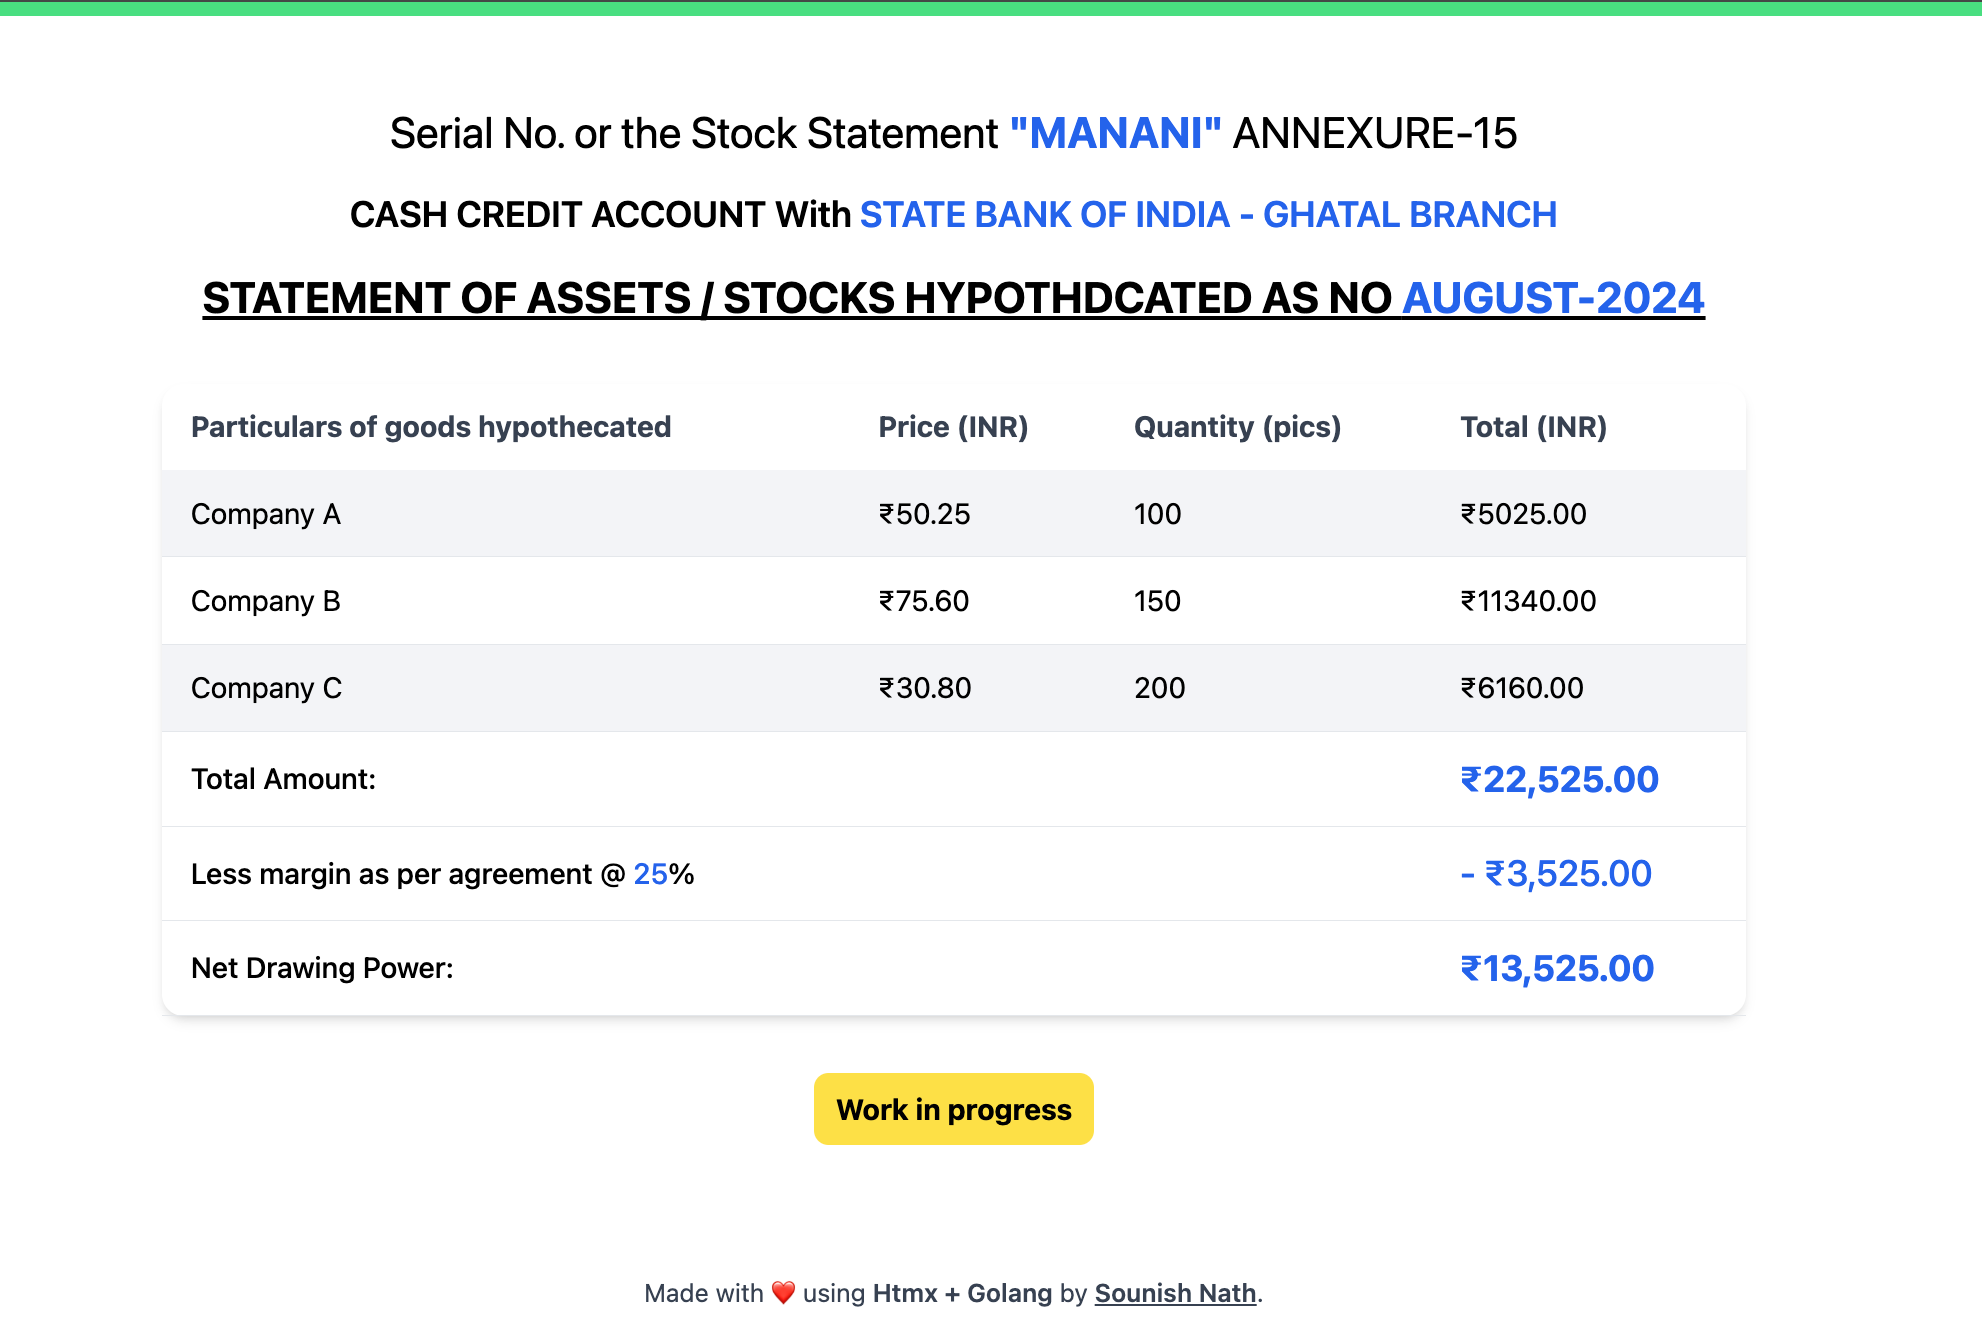
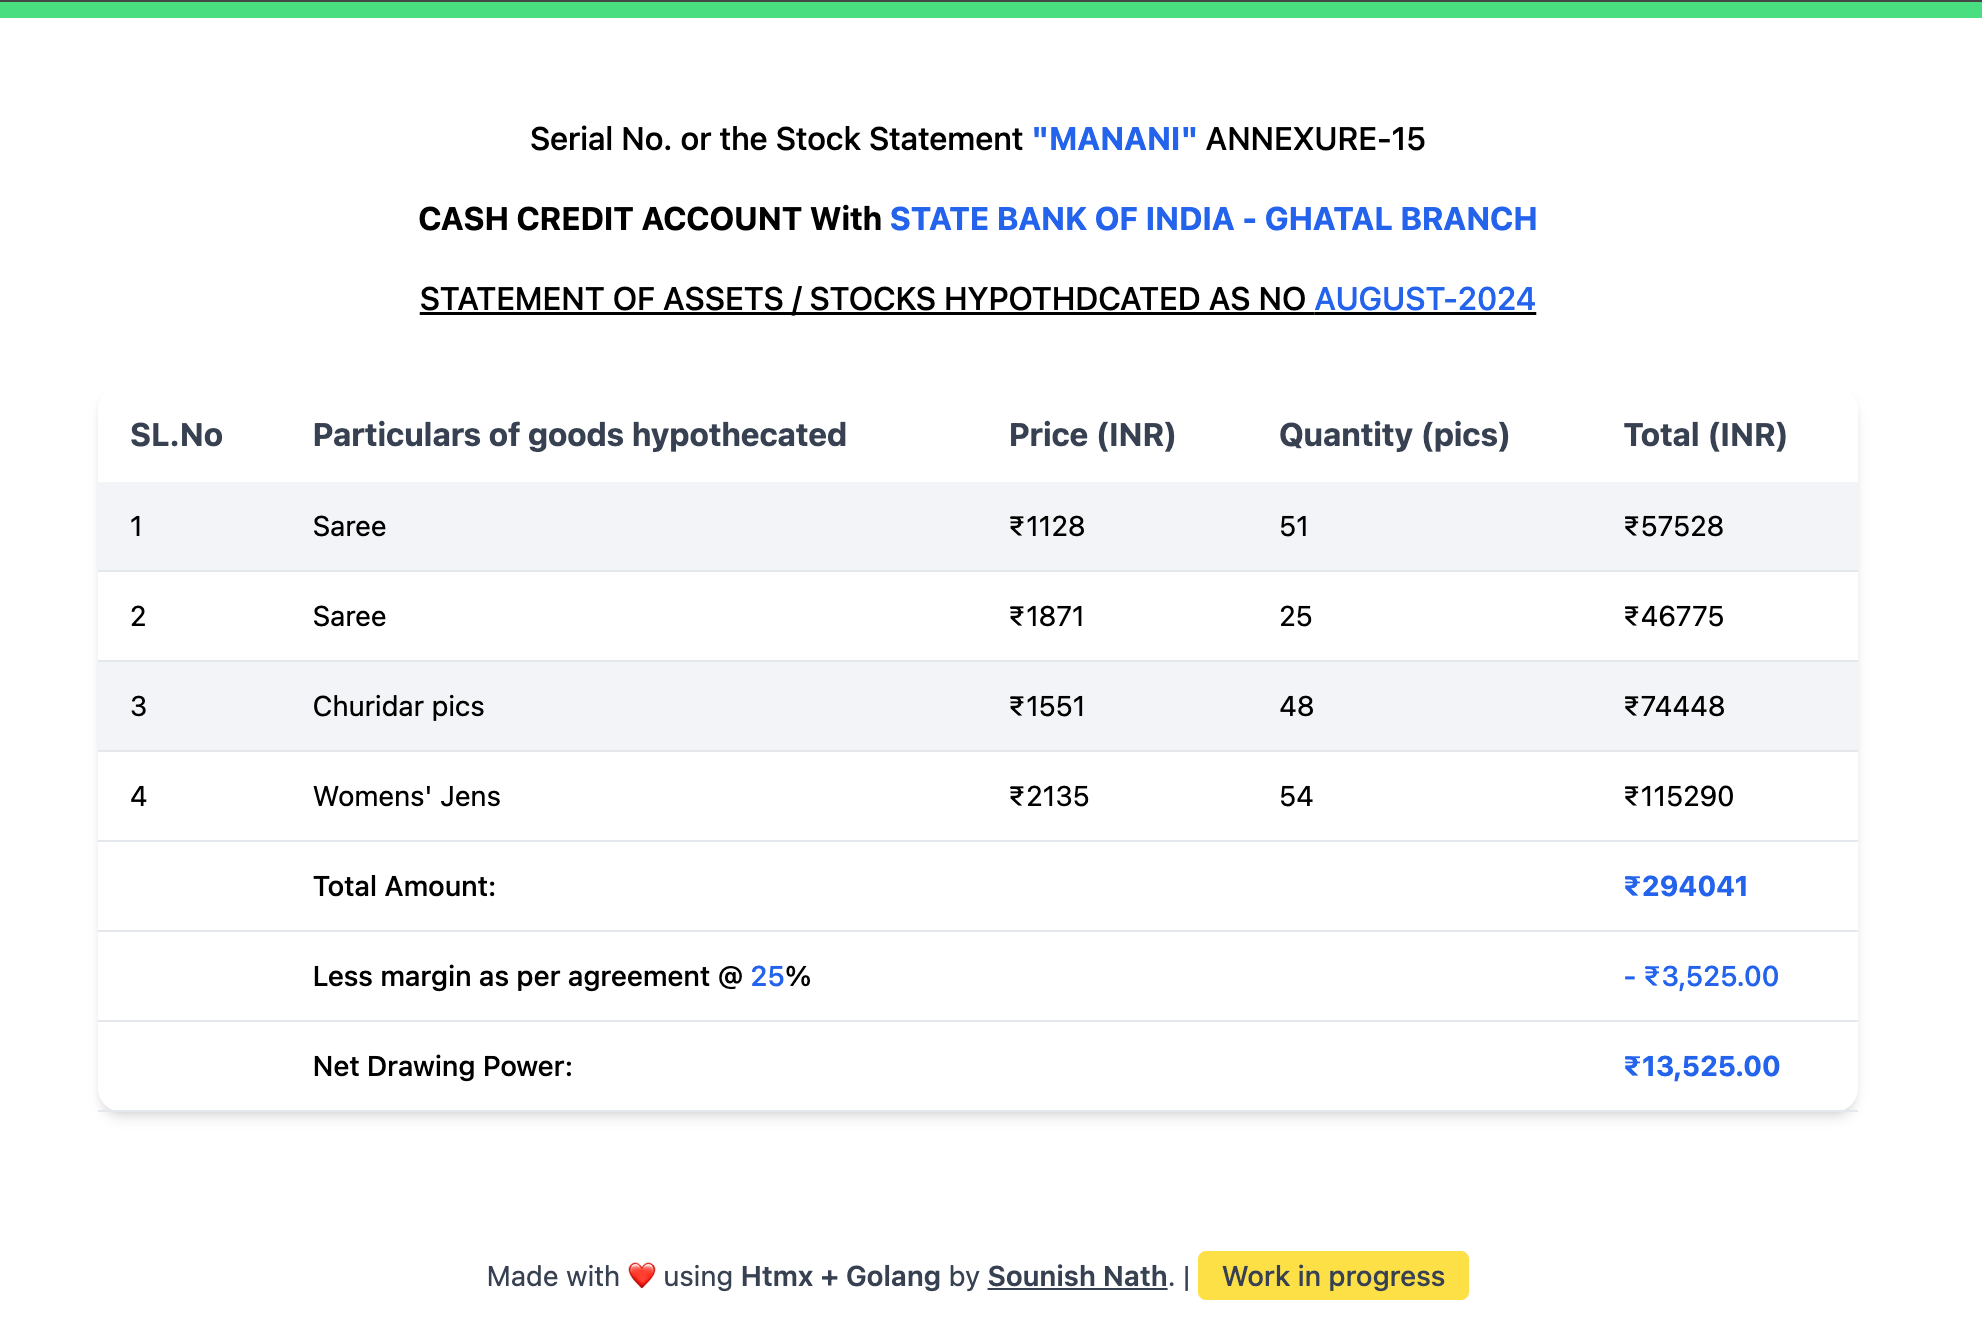
templ. parsing FuncMaps to perform maths

diff --git a/public/index.html b/public/index.html
@@ -5,7 +5,7 @@
     <meta charset="UTF-8" />
     <meta name="viewport" content="width=device-width, initial-scale=1.0" />
     <title>Sales Report Generator</title>
-    <script defer src="https://cdn.tailwindcss.com"></script>
+    <script src="https://cdn.tailwindcss.com"></script>
   </head>
   <body>
     <div>

diff --git a/internal/service/pdf.go b/internal/service/pdf.go
@@ -1,0 +1,89 @@
+package service
+
+import (
+	"bytes"
+	"crypto/rand"
+	"errors"
+	"fmt"
+	"log"
+	"os"
+	"os/exec"
+	"path"
+)
+
+const LOCAL_GOOG_CHROME_PATH = "/Applications/Google Chrome.app/Contents/MacOS/Google Chrome"
+
+// Attrib: https://github.com/bitcrowd/chromic_pdf/blob/main/lib/chromic_pdf/pdf/chrome_runner.ex
+var chromeFlags = []string{
+	"--headless",
+	"--disable-accelerated-2d-canvas",
+	"--disable-gpu",
+	"--allow-pre-commit-input",
+	"--disable-background-networking",
+	"--disable-background-timer-throttling",
+	"--disable-backgrounding-occluded-windows",
+	"--disable-breakpad",
+	"--disable-client-side-phishing-detection",
+	"--disable-component-extensions-with-background-pages",
+	"--disable-component-update",
+	"--disable-default-apps",
+	"--disable-extensions",
+	"--disable-features=Translate,BackForwardCache,AcceptCHFrame,MediaRouter,OptimizationHints",
+	"--disable-hang-monitor",
+	"--disable-ipc-flooding-protection",
+	"--disable-popup-blocking",
+	"--disable-prompt-on-repost",
+	"--disable-renderer-backgrounding",
+	"--disable-sync",
+	"--enable-automation",
+	"--enable-features=NetworkServiceInProcess2",
+	"--export-tagged-pdf",
+	"--force-color-profile=srgb",
+	"--hide-scrollbars",
+	"--metrics-recording-only",
+	"--no-default-browser-check",
+	"--no-first-run",
+	"--no-service-autorun",
+	"--password-store=basic",
+	"--use-mock-keychain",
+	"--no-sandbox",
+}
+
+// GeneratePdfFromSource helps to generate the PDF and Html file as per the requiremenet and bytes of data.
+func GeneratePdfFromSource(url string, source []byte) ([]byte, error) {
+	tmpDir := os.TempDir()
+	tmpFileId := generateIdForFileName()
+
+	htmlFile := path.Join(tmpDir, "tmp", tmpFileId+".html")
+	pdfFile := path.Join(tmpDir, "tmp", tmpFileId+".pdf")
+
+	log.Printf("generated.htmlFile.name: %s", htmlFile)
+	log.Printf("generated.pdfFile.name: %s", pdfFile)
+
+	// Setting up the necessary runtime args for the google chrome
+	args := append(chromeFlags, fmt.Sprintf(`--print-to-pdf %s`, url))
+	log.Printf("runtime.chrome.flags: %s\n", args)
+
+	os.WriteFile(htmlFile, source, 0o600)
+
+	outBuf := bytes.NewBuffer([]byte{})
+
+	cmd := exec.Command(LOCAL_GOOG_CHROME_PATH, args...)
+	cmd.Stderr = outBuf
+	cmd.Stdout = outBuf
+
+	err := cmd.Run()
+	if err != nil {
+		log.Printf("an error occured %v\n", err)
+		return nil, errors.New(outBuf.String())
+	}
+
+	return os.ReadFile(htmlFile)
+}
+
+func generateIdForFileName() string {
+	bytes := make([]byte, 8)
+	rand.Read(bytes)
+
+	return fmt.Sprintf("%#x", bytes)[2:]
+}

diff --git a/internal/service/sales_report.go b/internal/service/sales_report.go
@@ -1,12 +1,64 @@
 package service
 
 import (
+	"log"
+	"math/rand"
+	"strconv"
 	"time"
 
 	"github.com/sounishnath003/pdf-generator-go/internal/models"
 )
 
+// generateRandomNumber generates a random number between start and end range.
+func generateRandomNumber(start, end int) int {
+	seedNo, err := strconv.Atoi(time.Now().Format("200601"))
+	if err != nil {
+		log.Println("an error occurred", err)
+		return end
+	}
+	rand.NewSource(int64(seedNo))
+
+	return rand.Intn(end-start) + start
+}
+
+// Generate Product catalog as per the current month sales.
+func getProductCatalog() ([]models.MananiProduct, error) {
+	return []models.MananiProduct{
+		{
+			ID:          1,
+			ProductName: "Saree",
+			Quantity:    generateRandomNumber(20, 70),
+			Price:       generateRandomNumber(810, 1900),
+		},
+		{
+			ID:          2,
+			ProductName: "Saree",
+			Quantity:    generateRandomNumber(20, 70),
+			Price:       generateRandomNumber(1500, 2300),
+		},
+		{
+			ID:          3,
+			ProductName: "Churidar pics",
+			Quantity:    generateRandomNumber(20, 70),
+			Price:       generateRandomNumber(1500, 2300),
+		},
+		{
+			ID:          4,
+			ProductName: "Womens' Jens",
+			Quantity:    generateRandomNumber(20, 70),
+			Price:       generateRandomNumber(1500, 2300),
+		},
+	}, nil
+}
+
+// GenerateLatestSalesReport considering the Report and creating the data models.
+//
+// Returns the required information for the Templ template to showcase.
 func GenerateLatestSalesReport() *models.ReportGenerationModel {
+	products, err := getProductCatalog()
+	if err != nil {
+		panic(err)
+	}
 	return &models.ReportGenerationModel{
 		Name:           "sales_report",
 		Date:           time.Now().Format("January-2006"),
@@ -18,6 +70,16 @@ func GenerateLatestSalesReport() *models.ReportGenerationModel {
 			Heading3: "STATEMENT OF ASSETS / STOCKS HYPOTHDCATED AS NO",
 		},
 		PercentageLess: 25,
+		Products:       products,
+		TotalAmount:    calculateTotalAmount(products),
 		AuthorName:     "Sounish Nath",
 	}
+}
+
+func calculateTotalAmount(products []models.MananiProduct) int {
+	totalAmt := 0
+	for _, product := range products {
+		totalAmt += (product.Price * product.Quantity)
+	}
+	return totalAmt
 }

diff --git a/internal/models/models.go b/internal/models/models.go
@@ -12,12 +12,21 @@ type HeaderInfo struct {
 	Heading3 string `json:"heading_3"`
 }
 
+type MananiProduct struct {
+	ID          int8   `json:"id"`
+	ProductName string `json:"productName"`
+	Quantity    int    `json:"quantity"`
+	Price       int    `json:"price"`
+}
+
 type ReportGenerationModel struct {
-	Date           string     `json:"date"`
-	Name           string     `json:"name"`
-	ShopName       string     `json:"shopName"`
-	CashCreditBank string     `json:"cashCreditBank"`
-	Heading        HeaderInfo `json:"headerInfo"`
-	PercentageLess int8       `json:"percentageLess"`
-	AuthorName     string     `json:"authorName"`
+	Date           string          `json:"date"`
+	Name           string          `json:"name"`
+	ShopName       string          `json:"shopName"`
+	CashCreditBank string          `json:"cashCreditBank"`
+	Heading        HeaderInfo      `json:"headerInfo"`
+	PercentageLess int8            `json:"percentageLess"`
+	Products       []MananiProduct `json:"products"`
+	TotalAmount    int             `json:"totalAmount"`
+	AuthorName     string          `json:"authorName"`
 }

diff --git a/internal/htmx/template.go b/internal/htmx/template.go
@@ -23,7 +23,7 @@ func NewTemplateRender(e *echo.Echo, paths ...string) {
 
 	// Process the variadic passes in the arguments paths
 	for _, path := range paths {
-		template.Must(tmpl.ParseGlob(path))
+		template.Must(tmpl.Funcs(template.FuncMap{"mul": Mul, "sum": Sum}).ParseGlob(path))
 	}
 
 	t := newTemplate(tmpl)
@@ -35,4 +35,21 @@ func newTemplate(tmpl *template.Template) echo.Renderer {
 	return &Template{
 		Templates: tmpl,
 	}
+}
+
+// ParseAndRetrieveTemplFile parses and retrieves a template file.
+func ParseAndRetrieveTemplFile(filePath string) *template.Template {
+	return template.Must(template.ParseFiles(filePath))
+}
+
+func Mul(val1, val2 int) int {
+	return val1 * val2
+}
+
+func Sum(vals ...int) int {
+	t := 0
+	for e := range vals {
+		t += e
+	}
+	return t
 }

diff --git a/internal/handlers/handlers.go b/internal/handlers/handlers.go
@@ -1,7 +1,6 @@
 package handlers
 
 import (
-	"log"
 	"net/http"
 	"time"
 
@@ -19,8 +18,10 @@ func HandleIndexPage(ctx echo.Context) error {
 	return ctx.Render(http.StatusOK, data.Name, &data)
 }
 
+// var reportGenerationTempl = htmx.ParseAndRetrieveTemplFile("templates/layout.html.templ")
+
 func HandleReportGeneration(ctx echo.Context) error {
 	data := service.GenerateLatestSalesReport()
-	log.Println("latest.data", data)
+
 	return ctx.Render(http.StatusOK, data.Name, &data)
 }

diff --git a/README.md b/README.md
@@ -29,15 +29,15 @@ This project aims to create a web application that generates sales reports based
 ## How to run
 
 - Install dependencies
-    ```bash
-    make install-deps
-    ```
+
+  ```bash
+  make install-deps
+  ```
 
 - Run locally
-    ```bash
-    make run
-    ```
-
+  ```bash
+  make run
+  ```
 
 ## Contributing
 
@@ -47,6 +47,7 @@ Contributions are welcome! If you'd like to contribute to this project, please f
 
 - [@github/moroz/Pdf-Generator-Video](https://github.com/moroz/pdf-generation-video/) : Which uses the LateX to generate the PDF files.
 - [Learn Blog creation with Htmx and Go](https://medium.com/gravel-engineering/this-blogpost-also-posted-in-my-personal-blog-which-you-can-access-here-dd856c61001)
+- [Google Chome Headless Features](https://developer.chrome.com/docs/chromium/new-headless)
 
 ## Benefits
 
